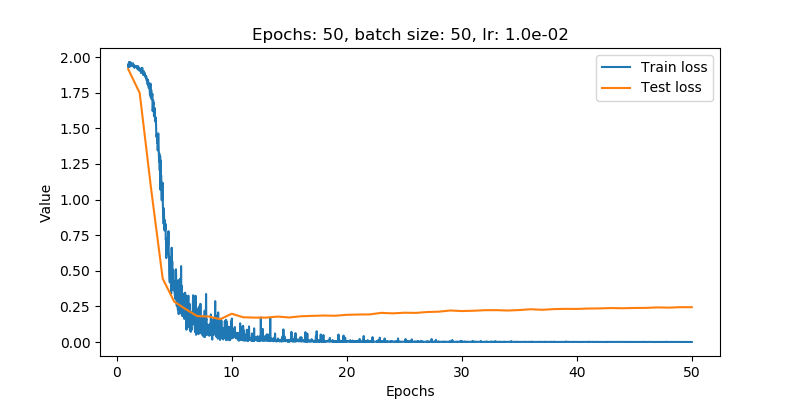
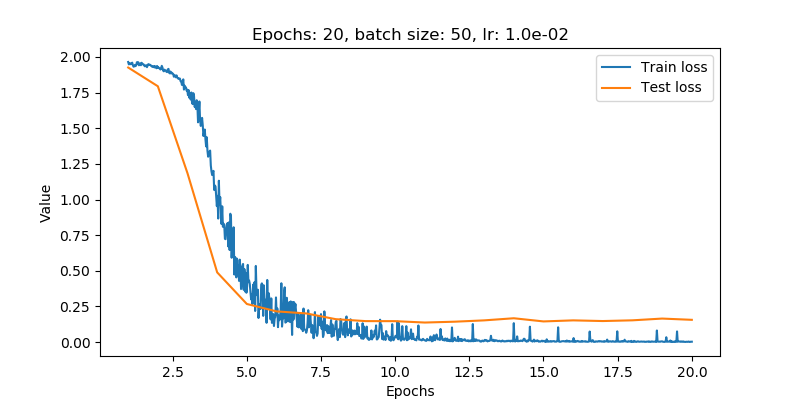
add model eval

diff --git a/train.py b/train.py
@@ -5,6 +5,7 @@ import numpy as np
 import sklearn.metrics as mtr
 import seaborn as sns
 import math
+import pickle
 
 import data_utils as du
 from model import Net
@@ -42,7 +43,7 @@ loss_fn = torch.nn.CrossEntropyLoss()
 # Train model
 test_loss_track = []
 train_loss_track = []
-epochs_num = 50
+epochs_num = 20
 train_batch_num = math.ceil(len(train_set) / batch_size)
 for epoch in range(epochs_num):
     net.train()
@@ -95,7 +96,7 @@ plt.show()
 accuracy_sum = 0
 num = 0
 conf_mat = np.zeros((7, 7), dtype=np.int)
-for batch_num, (inputs, labels) in enumerate(train_loader):
+for batch_num, (inputs, labels) in enumerate(valid_loader):
     outputs = net(inputs)
     _, pred_labels = outputs.cpu().detach().max(1)
     accuracy_sum += mtr.accuracy_score(labels.cpu(), pred_labels)
@@ -115,9 +116,10 @@ plt.title(f"Validation set accuracy: {100 * accuracy:.1f}%")
 plt.savefig("plots/conf_mat.png")
 plt.show()
 
-# TODO fix save model utility
-# Save model weights
+# Save model weights and word encodings
 ans = input("Save model? [y/n]")
 if ans is 'y':
     filename = input("Save as: ")
     torch.save(net.state_dict(), "weights/" + filename + ".pt")
+    with open("weights/" + filename + ".pkl", "wb") as f:
+        pickle.dump(word_to_idx, f)

diff --git a/evaluate.py b/evaluate.py
@@ -1,2 +1,30 @@
-# TODO Load model and weights
-# TODO Show evaluation
+import torch
+import pickle
+import random
+
+import data_utils as du
+from model import Net
+
+_, valid_data = du.load_labeled_data()
+random.shuffle(valid_data)
+
+# Load network, weights and word encodings
+filename = input("File name: ")
+with open("weights/" + filename + ".pkl", "rb") as f:
+    word_to_idx = pickle.load(f)
+
+net = Net(100, len(word_to_idx), 26).to(device=du.device, dtype=torch.float)
+net.load_state_dict(torch.load("weights/" + filename + ".pt"))
+net.eval()
+
+for sentence, label in valid_data:
+    # Encode sentence
+    enc_val = du.encode_string(sentence, word_to_idx)
+    enc_t = du.sentence_to_tensor(enc_val, 26)
+
+    # Predict label
+    _, pred_label = net(enc_t).cpu().detach().max(1)
+    print(sentence)
+    print("Predicted label: " + du.num_to_class[pred_label.item()])
+    print("Actual label: " + du.num_to_class[label])
+    input("Enter to continue...\n")

diff --git a/data_utils.py b/data_utils.py
@@ -13,6 +13,14 @@ class_to_num = {"AddToPlaylist": 0,
                 "SearchCreativeWork": 5,
                 "SearchScreeningEvent": 6}
 
+num_to_class = {0: "AddToPlaylist",
+                1: "BookRestaurant",
+                2: "GetWeather",
+                3: "PlayMusic",
+                4: "RateBook",
+                5: "SearchCreativeWork",
+                6: "SearchScreeningEvent"}
+
 
 def string_to_word_list(string):
     word_list = string.split()

diff --git a/model.py b/model.py
@@ -11,7 +11,7 @@ class Attention(nn.Module):
         self.dense = nn.Linear(feature_num, 1, bias=True)
 
     def forward(self, x):
-        u = torch.tanh(self.dense(x)).squeeze()
+        u = torch.tanh(self.dense(x)).squeeze(2)
 
         v = torch.exp(u)
         a = v / (torch.sum(v, 1, keepdim=True) + Attention.eps)
